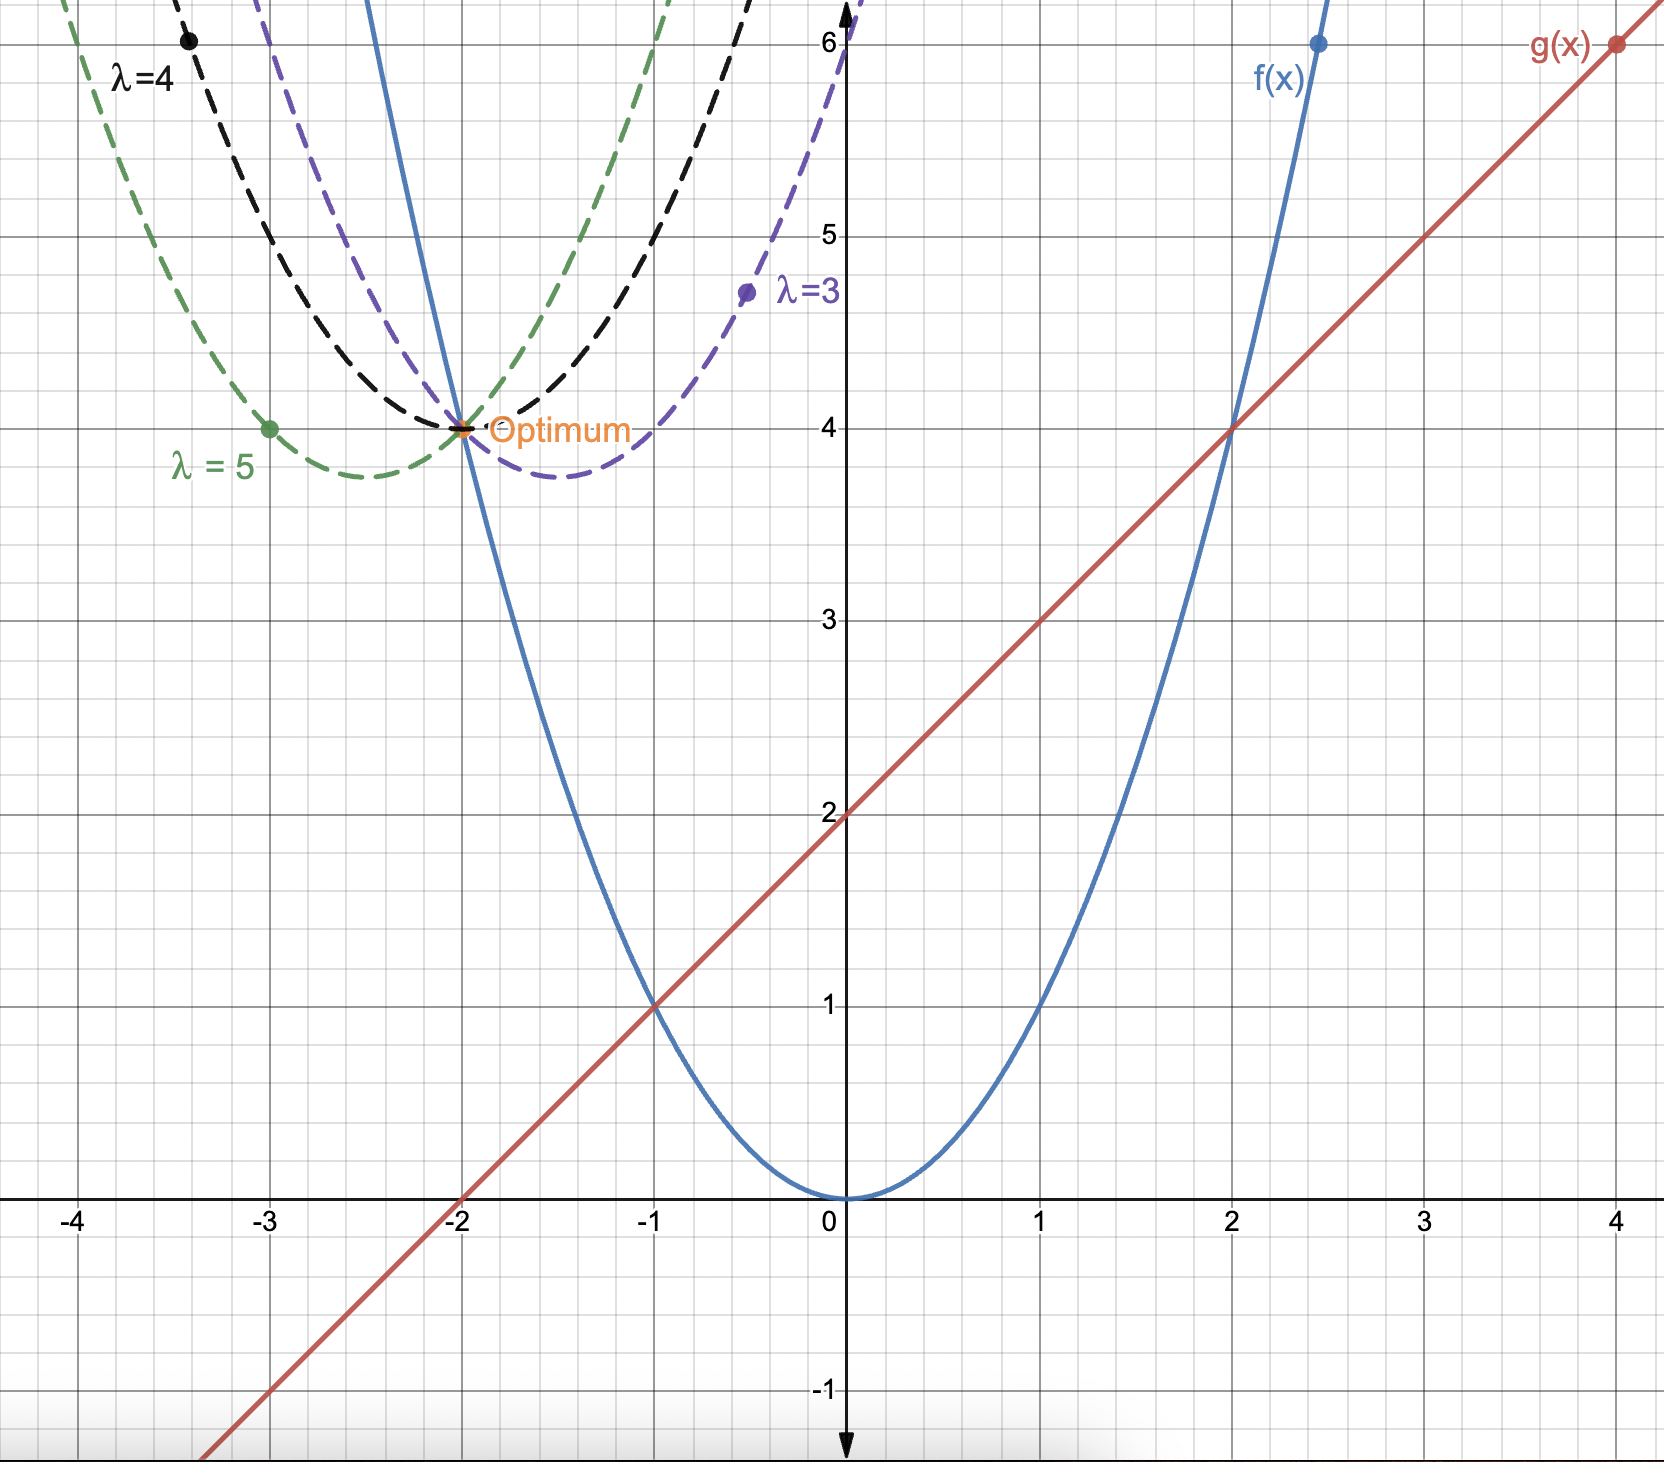
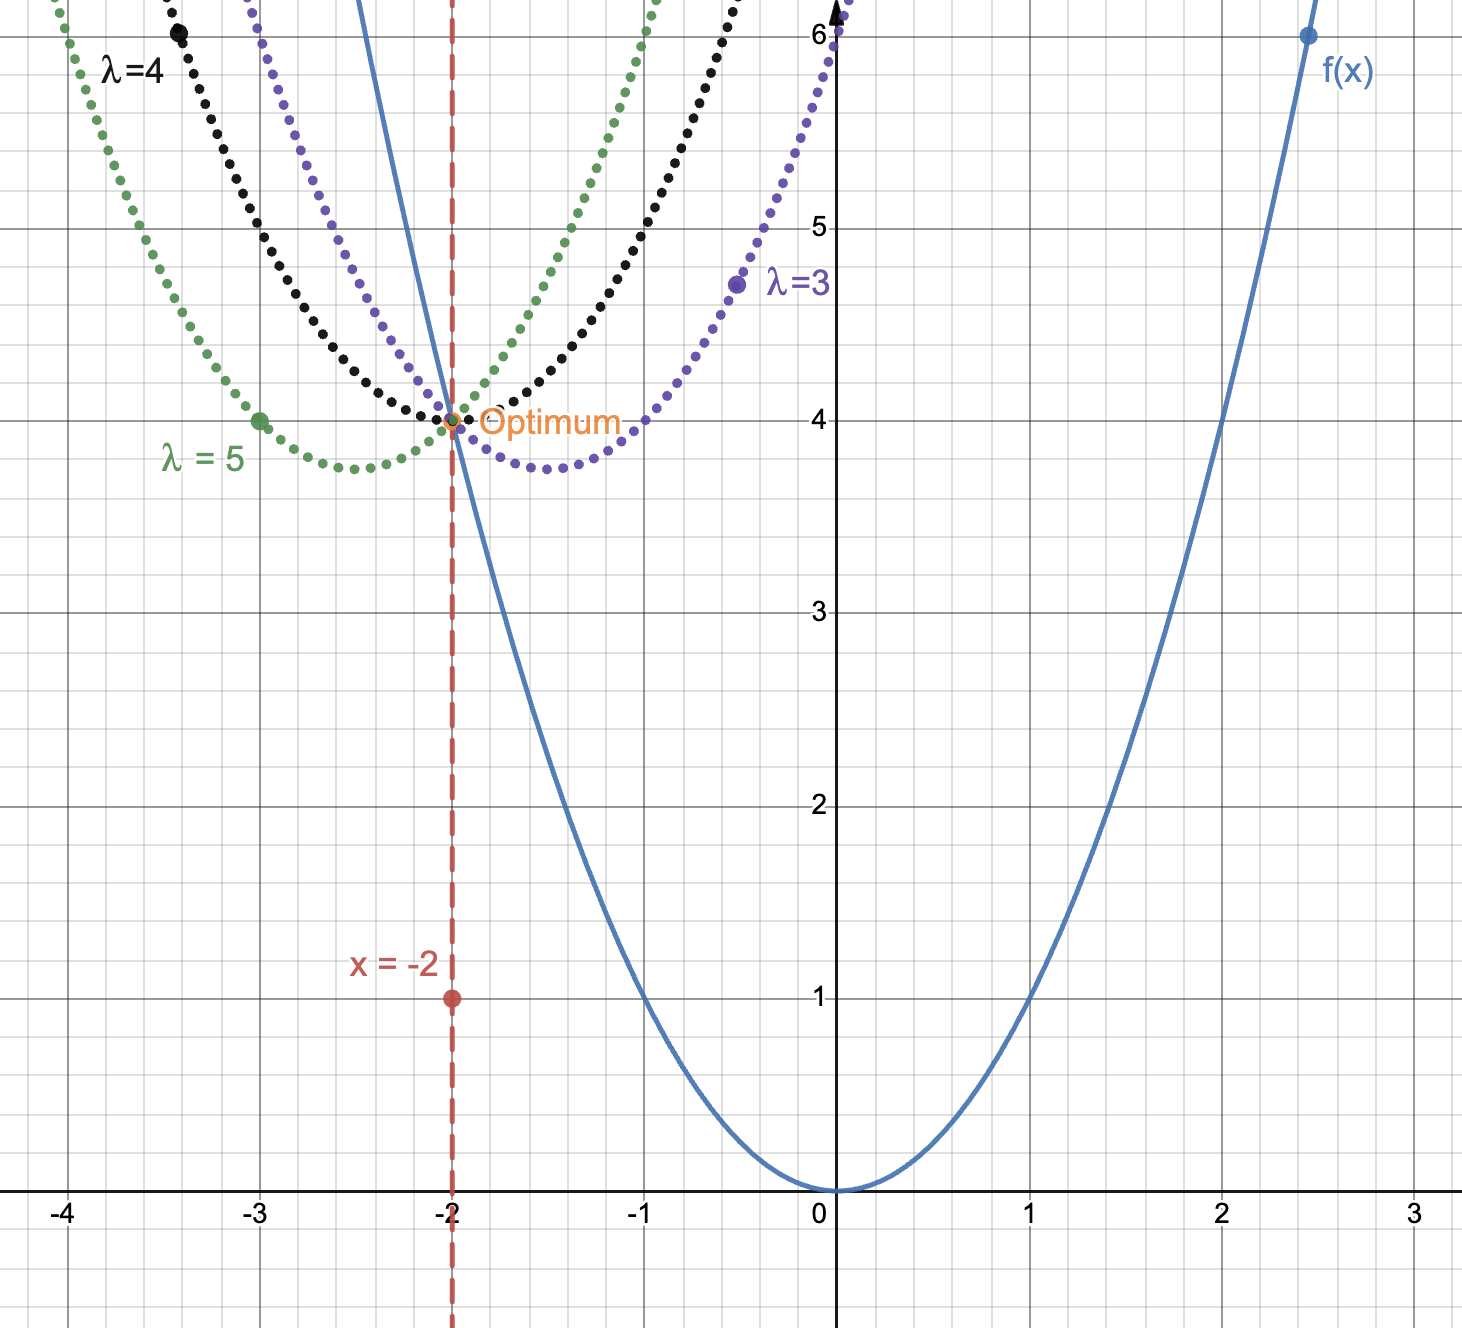
Fix final typos and upload new figures.

Changed region(s): [[0.0, 0.0, 1.0, 1.0]]

diff --git a/_posts/2023-05-28-lagrangian.md b/_posts/2023-05-28-lagrangian.md
@@ -91,7 +91,7 @@ Analytically, this can be phrased as finding $$\min_{x} f(x) + \lambda g(x)$$ fo
 
 $$\max_{\lambda} \min_{x} L(x, \lambda)$$
 
-This also means finding the saddle point of the Lagrangian. To see why this works, let us look at an example. To keep things simple, we will look at an optimization problem with one inequality constraint only (without loss of generality):
+This also means finding the saddle point of the Lagrangian. To see why this works, let us look at an example. To keep things simple, we will look at an optimization problem with one inequality constraint and one variable functions only (without loss of generality):
 
 $$\min_{x} f(x)$$
 
@@ -102,7 +102,7 @@ The chart of this function would be:
 <div style="text-align: center;">
 {% include figure.html path="assets/img/lagrangian/lagrangian_simple_problem.png" class="img-fluid w-50 rounded z-depth-1" %}
 <p align = "center">
-An example of optimization problem where we have a convex objective and one inequality constraint. Made with &copy; Desmos.
+An example of optimization problem where we have a convex objective and one inequality constraint. The constrained area is to the left of the line $$x = -2$$. Made with &copy; Desmos.
 </p>
 </div>
 
@@ -118,9 +118,9 @@ The same problem from before, where we see the dual for multiple values of lambd
 
 As one can see, the more we increase $$\lambda$$, the more the unconstrained minimum of $$f$$ (at $$x=0$$) is penalized. That is the reason why the constrained minimum ($$g(\lambda)$$) has to move to the left of the unconstrained minimum, so that it is closer to the constraint line. At the same time, the more we move to the left (up to a certain point as we will see), the larger the value of the constrained minimum (than the previous constrained minimum) is. This is due to the fact that we are in a regime where the first terms of $$g$$ is dominant ($$f(x)$$) and moving even slightly to the left entails moving farther from the unconstrained minimum of $$f$$ and thus having higher values for $$f(x)$$.
 
-However, by going left farther and farther and entering the area where the constraint is fulfilled (see $$\lambda=5$$ in the figure from above), we enter a regime where the second term of $$g$$ is dominant ($$\lambda g(x)$$). This term is negative, since the constraint is fulfilled. By increasing $$\lambda$$, we only increase the influence of this term and thus generating smaller and smaller constrained minima (up to $$-\inf$$), that are far from what we are interested in.
+However, by going farther and farther to the left and entering the area where the constraint is fulfilled (see $$\lambda=5$$ in the figure from above), we enter a regime where the second term of $$g$$ is dominant ($$\lambda g(x)$$). This term is negative, since the constraint is fulfilled. By increasing $$\lambda$$, we only increase the influence of this term and thus generating smaller and smaller constrained minima (up to $$-\inf$$), that are far from what we are interested in.
 
-The point we are actually interested in is at the intersection of the 2 regimes. $$\lambda$$ should be high enough such that all points to the right of the constraint line are sufficiently penalized and can not be optima anymore (the first term of $$g$$ is not overly influential), but small enough such that the points that are well into the constrained area are not overly appreciated (the second term of $$g$$ is not overly powerful). This point in which we are interested corresponds to $$\lambda=4$$ in the figure from above. It also corresponds to the point for which $$g(x)=0$$ (exactly on the edge of the constrained area). Finding this point corresponds to finding the maximum of $$g$$ and finding the maximum of $$g$$ entails solving $$\max_{\lambda}\min_{x} L(x, \lambda), thus the saddle point of the Lagrangian.
+The point we are actually interested in is at the intersection of the 2 regimes. $$\lambda$$ should be high enough such that all points to the right of the constraint line are sufficiently penalized and can not be optima anymore (the first term of $$g$$ is not overly influential), but small enough such that the points that are well into the constrained area are not overly appreciated (the second term of $$g$$ is not overly powerful). This point in which we are interested corresponds to $$\lambda=4$$ in the figure from above. It also corresponds to the point for which $$g(x)=0$$ (exactly on the edge of the constrained area). Finding this point corresponds to finding the maximum of $$g$$ and finding the maximum of $$g$$ entails solving $$\max_{\lambda}\min_{x} L(x, \lambda)$$, thus the saddle point of the Lagrangian.
 
 This method, like the one of the Lagrange multipliers for equality constraints, can naturally be generalized to multiple constraints.
 
